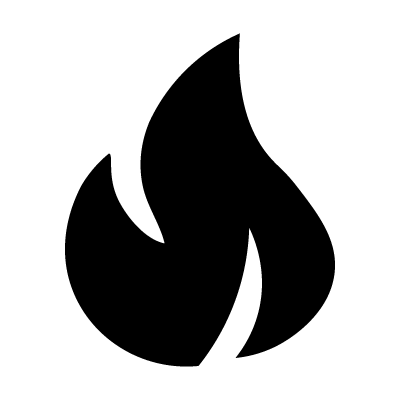
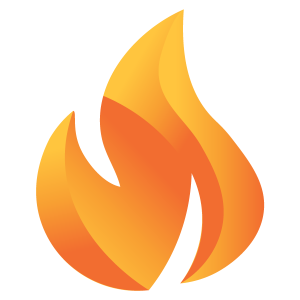
feat: add recaptcha provider and update toast position (#1)
* refactor: updated company name in README and package.json, replaced app icon

* refactor: added vercel analytics and speed insights

* feat: add recaptcha provider and update toast position

diff --git a/app/layout.tsx b/app/layout.tsx
@@ -1,6 +1,9 @@
 import { ReactNode } from 'react';
 import type { Metadata } from 'next';
+import { Analytics } from '@vercel/analytics/react';
+import { SpeedInsights } from '@vercel/speed-insights/next';
 
+import { RecaptchaProvider } from '@/lib/providers/google-recaptcha-provider';
 import { ToastProvider } from '@/lib/providers/toast-provider';
 
 import '@/app/styles/globals.css';
@@ -9,21 +12,32 @@ type RootLayoutProps = {
 	children: ReactNode;
 };
 
-export const metadata: Metadata = {
+/* get the url depending on the environment */
+const absoluteUrl =
+	process.env.NODE_ENV === 'production'
+		? process.env.NEXT_PUBLIC_PRODUCTION_URL!
+		: process.env.NEXT_PUBLIC_DEVELOPMENT_URL!;
+
+export const metadata = {
+	metadataBase: new URL(absoluteUrl),
 	title: {
-		default: 'Next.JS Starter Template App',
+		default: 'Superior Software Solutions',
 		template: '%s | Superior Software Solutions',
 	},
 	description:
-		'Starter template for Next.JS projects using TypeScript and Shadcn/UI.',
+		"Kenya's premier software design studio. Superior Software Solutions: websites, webapps, success stories. Let's craft yours.",
 };
 
 const RootLayout = ({ children }: RootLayoutProps) => {
 	return (
 		<html lang="en">
 			<body className="scroll-smooth font-sans antialiased">
-				{children}
-				<ToastProvider />
+				<RecaptchaProvider>
+					{children}
+					<Analytics />
+					<SpeedInsights />
+					<ToastProvider />
+				</RecaptchaProvider>
 			</body>
 		</html>
 	);

diff --git a/lib/providers/toast-provider.tsx b/lib/providers/toast-provider.tsx
@@ -1,5 +1,5 @@
-import { Toaster } from "sonner";
+import { Toaster } from 'sonner';
 
 export const ToastProvider = () => {
-  return <Toaster position="top-center" richColors expand={true} />;
+	return <Toaster position="top-right" richColors expand={true} />;
 };

diff --git a/README.md b/README.md
@@ -1,6 +1,6 @@
-# [XXXXX XXXXX XXXXX] Website Project
+# Superior Software Solutions Website Project
 
-Welcome to the private repository for [XXXXX XXXXX XXXXX] official website. This
+Welcome to the repository for Superior Software Solutions official website. This
 repository houses the codebase for the dynamic and interactive website,
 showcasing our commitment to excellence in web development.
 
@@ -15,8 +15,8 @@ showcasing our commitment to excellence in web development.
 
 ## Introduction
 
-[XXXXX XXXXX XXXXX] is dedicated to transforming digital experiences. This
-website serves as a testament to our skills and commitment to delivering
+Superior Software Solutions is dedicated to transforming digital experiences.
+This website serves as a testament to our skills and commitment to delivering
 top-notch web solutions.
 
 ## Features
@@ -48,4 +48,5 @@ We will eventually welcome contributions!.
 
 This project is licensed under the MIT License.
 
-Thank you for being a part of the [XXXXX XXXXX XXXXX] website project! 🚀✨
+Thank you for being a part of the Superior Software Solutions website project!
+🚀✨
